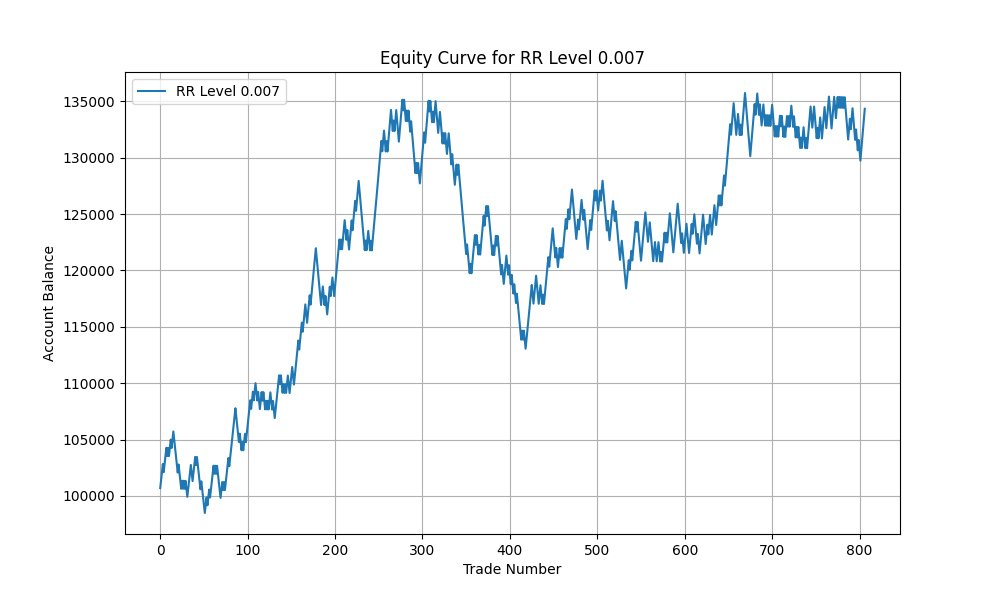
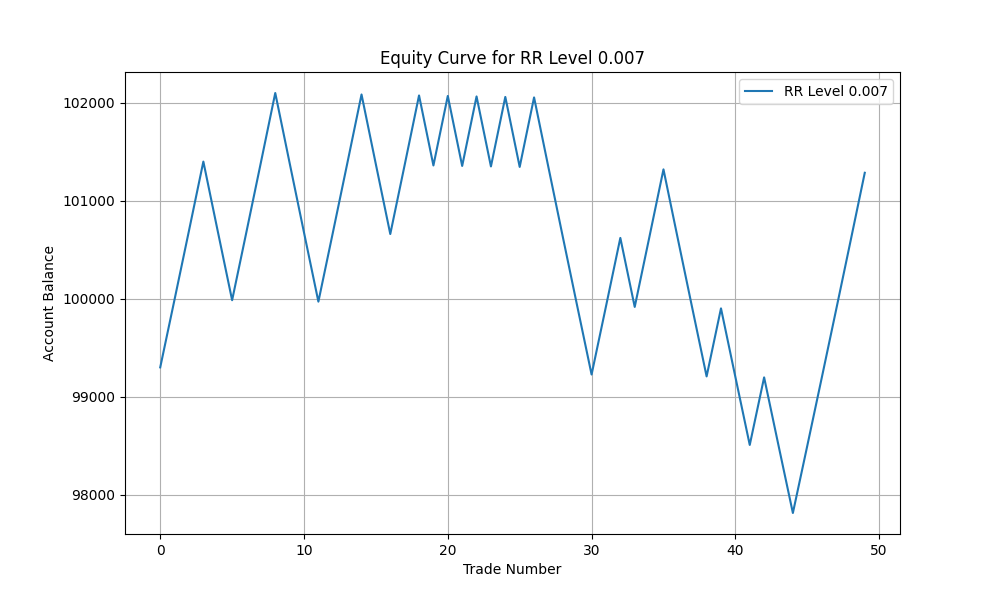
Update portfolio simulation results and equity curves to just the last 4 months

diff --git a/Scripts/Portfolio_Sims.py b/Scripts/Portfolio_Sims.py
@@ -6,6 +6,14 @@ import argparse
 def simulate_portfolio(file_path, initial_balance):
     data = pd.read_csv(file_path)
 
+    # Filter data to include only rows from July 2024 onward
+    data['Entry_Time'] = pd.to_datetime(data['Entry_Time'])  # Ensure Date column is in datetime format
+    data = data[data['Entry_Time'] >= '2024-07-01']
+
+    if data.empty:
+        print(f"No data available for the period starting July 2024 in file: {file_path}")
+        return None, None
+
     # Initialize variables
     account_balance = initial_balance
     cumulative_returns = []
@@ -74,6 +82,9 @@ def main(input_directory, output_directory, equity_curve_directory, initial_bala
         print(f"Simulating portfolio for {rr_file}...")
         file_path = os.path.join(input_directory, rr_file)
         stats, equity_curve = simulate_portfolio(file_path, initial_balance)
+
+        if stats is None or equity_curve is None:
+            continue
 
         # Add RR level to stats
         rr_level = os.path.splitext(rr_file)[0].split('_')[-1]
